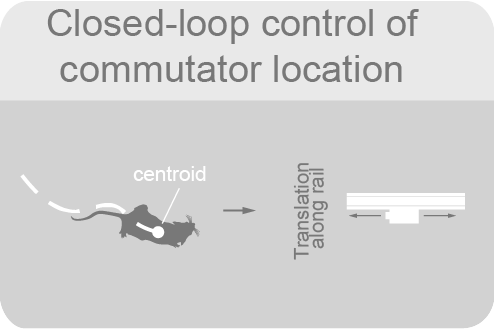
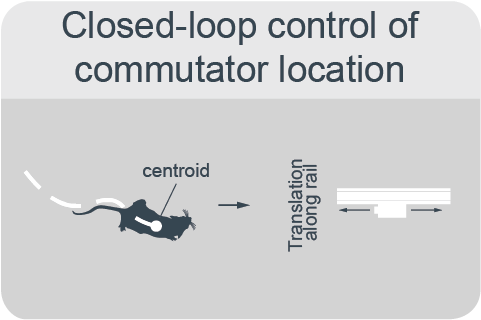
Update multianimal tracking (#145)
* Update multianimal tracking

* Link to experimental workflow tutorial

* Replace main figure

* Add references to hardware modules

* Replace grid layout with vertical image-text blocks in getting started

* Standardise images and increase contrast

* Increase image size

* Restore main figure with 3 mice

* Update to inlude Bonsai

* Add Bonsai URL to `myst_url_schemes`

* Create explicit refs for subject tracking nodes

* Add references to acquisition modules

---------

diff --git a/src/_static/css/custom.css b/src/_static/css/custom.css
@@ -71,6 +71,17 @@ html[data-theme=light] {
   height: 8vw; 
 }
 
+.img-getting-started-large {
+  min-width: 300px;
+  margin-bottom: 1rem;
+}
+
+.img-getting-started-small {
+  min-width: 200px;
+  width: 40%;
+  margin-bottom: 1rem;
+}
+
 img.img-hardware-steps {
   max-height: 40vh;
 }

diff --git a/src/conf.py b/src/conf.py
@@ -179,6 +179,8 @@ myst_url_schemes = {
     "aeon-feeder-github": "https://github.com/SainsburyWellcomeCentre/aeon_feeder/{{path}}",
     "aeon-api-github": "https://github.com/SainsburyWellcomeCentre/aeon_api/{{path}}",
     "aeon-template-github": "https://github.com/SainsburyWellcomeCentre/aeon_template/{{path}}",
+    "aeon-sleap-processing-github": "https://github.com/SainsburyWellcomeCentre/aeon_sleap_processing/{{path}}",
+    "bonsai": "https://bonsai-rx.org/{{path}}#{{fragment}}",
     "datajoint": "https://www.datajoint.com/{{path}}",
     "datajoint-docs": "https://docs.datajoint.com/{{path}}#{{fragment}}",
     "sample-data-single-mouse-foraging": "https://doi.org/10.5281/zenodo.13881884",

diff --git a/src/getting_started/multianimal_tracking.md b/src/getting_started/multianimal_tracking.md
@@ -2,72 +2,67 @@
 # Multi-Animal Tracking
 
 :::{figure} ../images/ma-main.png
-:height: 300px
 :alt: multi-animal-tracking
+:class: img-getting-started-large
+:width: 60%
 
-Online tracking of location and identity of individual animals allows for quantification of natural behaviours.
+Online tracking of location, poses and identity of individual animals allows for quantification of natural behaviours.
 :::
-By quantifying both position as well as locomotion speed of multiple animals over weeks, we can identify the emergence of spontaneous behaviours such as foraging, as well as investigate social dynamics and individual strategies and their modulation by environmental influences.
-This is possible through the multipronged approach using multiple cameras as well as RFID sensors embedded in a single workflow.
+By quantifying position and locomotion speed as well as estimating the poses of multiple animals over weeks, we can identify the emergence of spontaneous behaviours such as foraging, as well as investigate social dynamics and individual strategies and their modulation by environmental influences. 
+This is possible through the multipronged approach using [Bonsai](bonsai:) and the computer vision software [SLEAP](sleap:) on multiple cameras and RFID sensors embedded in a single [experimental workflow](target-general-experimental-workflow).
 
-## Live position tracking
-::::{grid} 2
-:margin: 0
-
-:::{grid-item}
-:columns: 4
-:child-align: center
-![live-position-tracking](../images/ma-live-position-tracking.png)
-:::
-:::{grid-item}
-:columns: 8
-:child-align: center
-
-An overhead camera with a view of the entire habitat feeds into a Bonsai workflow and
-continuously estimates the animals' x, y positions, body length, and orientation.
+## Bonsai centroid tracking
+For simple position tracking, the [`PositionTracking` node](target-node-positiontracking) in the [subject tracking module](target-module-subject-tracking) detects animal centroids using blob detection on masked regions of interest.
+This approach is suitable for single-animal experiments or for generating annotated datasets to train SLEAP models.
 
 *Relevant repositories: [aeon_experiments](aeon-experiments-github:), [aeon_acquisition](aeon-acquisition-github:)*
+
+## SLEAP identity model
+:::{image} ../images/ma-identity-model.png
+:alt: sleap-id-model
+:class: img-getting-started-small
+:align: center
 :::
-::::
 
-## Identifying animals
-::::{grid} 2
-:margin: 0
+To enable reliable individual identification, distinctive band patterns are tattooed on the mice's tails as clear and stable markers.
+Top-down view cameras are used to train experiment-specific SLEAP identity models to track each mouse based on its unique tail pattern.
+This can be achieved using either a single overhead full-field camera that captures the entire [habitat](target-habitat), or a set of four overhead quadrant cameras, each capturing a zoomed-in view of approximately one quarter of the habitat with slight overlaps to ensure continuous coverage.
+The latter approach offers improved tracking accuracy by providing higher-resolution views of the mice and their tail patterns.
+These identity models are trained for each unique set of subjects.
 
-:::{grid-item}
-:columns: 4
-:child-align: center
-![identifying-animals](../images/ma-identifying-animals.png)
+*Relevant repositories: [aeon_sleap_processing](aeon-sleap-processing-github:)*
+
+## SLEAP pose model
+:::{image} ../images/ma-pose-model.png
+:alt: sleap-pose-model
+:class: img-getting-started-small
+:align: center
 :::
-:::{grid-item}
-:columns: 8
-:child-align: center
 
-When there are multiple animals in the habitat, identity of each animal can be
-determined using computer vision ([SLEAP](sleap:)) from the overhead camera using the individual tail tattoos (one
-band, two bands, or none) as features. Furthermore, animals are implanted with RFID tags that
-allow us to quantify their visits to important sites (nest, foraging patches, gates) which are equipped with RFID antennae. 
+The SLEAP pose model tracks eight body parts along each mouse using overhead cameras (typically the full-field camera).
+Unlike identity models, the pose model is designed to be reusable across experiments with similar setups.
 
-*Relevant repositories: [aeon_experiments](aeon-experiments-github:), [aeon_acquisition](aeon-acquisition-github:)*
+*Relevant repositories: [aeon_sleap_processing](aeon-sleap-processing-github:)*
+
+## Inference pipeline
+:::{image} ../images/ma-inference-pipeline.png
+:alt: multi-animal-tracking
+:class: img-getting-started-large
+:align: center
 :::
-::::
 
-## Pose estimation
-::::{grid} 2
-:margin: 0
+SLEAP model inference is handled through the [`PoseTracking` node](target-node-posetracking) in the [subject tracking module](target-module-subject-tracking).
+The identity model processes all quadrant views, assigning an identity and a likelihood score to each detected mouse. 
+For each mouse, the prediction with the highest likelihood is selected and projected onto the full-field camera view. 
+If zoomed-in quadrant cameras are not available, an identity model trained on the full-field view can be used instead. 
+When both models are available, full-field tracking serves as a fallback in frames where quadrant-based tracking fails to detect one or more mice.
+The pose model then estimates the pose of each mouse in the full-field view.
+The final output combines both pose and identity assignments.
 
-:::{grid-item}
-:columns: 4
-:child-align: center
-![pose-estimation](../images/ma-pose-estimation.png)
-:::
-:::{grid-item}
-:columns: 8
-:child-align: center
+*Relevant repositories: [aeon_sleap_processing](aeon-sleap-processing-github:), [aeon_experiments](aeon-experiments-github:), [aeon_acquisition](aeon-acquisition-github:)*
 
-A zoomed-in view of the overhead camera together with side-view cameras at
-behavioural hotspots such as the foraging patches allows for analysis of posture.
+## RFID validation
+Each mouse is implanted with an RFID tag, enabling automatic detection of its presence at key locations within the habitat which are equipped with RFID antennae ([nest](target-nest), [foraging patches](target-foraging-patch), gates).
+These RFID detections provide ground-truth data for validating the accuracy of identity tracking.
 
-*Relevant repositories: [aeon_experiments](aeon-experiments-github:), [aeon_acquisition](aeon-acquisition-github:)*
-:::
-::::
+*Relevant repositories: [aeon_sleap_processing](aeon-sleap-processing-github:)*

diff --git a/src/user/aeon_modules/acquisition/subject_tracking.md b/src/user/aeon_modules/acquisition/subject_tracking.md
@@ -7,6 +7,7 @@ It includes nodes such as `PositionTracking` for detecting and tracking blobs (o
 These enable real-time tracking, event triggering, and data logging, making it easier to monitor and analyse animal behaviour in various experimental setups.
 
 ## Nodes
+(target-node-positiontracking)=
 ### PositionTracking 
 The `PositionTracking (Aeon.Vision)` node accepts frame events generated by a [camera](target-node-spinnakervideosource) and detects dark objects against a light background using a standard blob tracking pipeline. 
 
@@ -76,8 +77,9 @@ This name will be set to the `Subject` that carries the `FrameEvents` from the [
 ![Aeon.Vision.PositionTracking](../../../workflows/positionTracking.bonsai)
 :::
 
+(target-node-posetracking)=
 ### PoseTracking
-Pose tracking utilises [SLEAP](https://sleap.ai/), which is fully integrated with Bonsai through the [Bonsai.Sleap](https://bonsai-rx.org/sleap/index.html) package, to simultaneously track and identify different animals within the habitat.
+Pose tracking utilises [SLEAP](https://sleap.ai/), which is fully integrated with Bonsai through the [Bonsai.Sleap](bonsai:sleap/index.html) package, to simultaneously track and identify different animals within the habitat.
 
 In Aeon experimental workflows, two linked `IncludeWorkflow`s are provided to give this functionality. 
 The `PoseTracking (Extensions)` node contains the complete data flow and processing workflow for identity and tracking of subjects from video frames captured by the cameras, whereas the `PoseTracking (Aeon.Vision.Sleap)` node is used within this workflow to perform the model inference step of processing. 
@@ -126,10 +128,10 @@ Inside, place a `PoseTracking (Aeon.Vision.Sleap)` node, externalise all propert
 
 ### RegionTracking 
 <!-- I assume this node can be used with either PositionTracking or PoseTracking. If incorrect, we should remove the PoseTracking bit. -->
-The `RegionTracking (Aeon.Vision)` node computes and returns a `boolean` describing whether the tracked position (from a [`PositionTracking (Aeon.Vision)`](#positiontracking) or [`PoseTracking (Aeon.Vision.Sleap)`](#posetracking) node) of an animal falls within a defined [region](target-node-regiontracking-properties) of the camera image.
+The `RegionTracking (Aeon.Vision)` node computes and returns a `boolean` describing whether the tracked position (from a [`PositionTracking (Aeon.Vision)`](target-node-positiontracking) or [`PoseTracking (Aeon.Vision.Sleap)`](target-node-posetracking) node) of an animal falls within a defined [region](target-node-regiontracking-properties) of the camera image.
 <!-- To be completed
 #### Inputs
-Tracking events in the format `Harp.Timestamped<Bonsai.Vision.ConnectedComponentCollection>` generated by a [`PositionTracking (Aeon.Vision)`](#positiontracking) node?
+Tracking events in the format `Harp.Timestamped<Bonsai.Vision.ConnectedComponentCollection>` generated by a [`PositionTracking (Aeon.Vision)`](target-node-positiontracking) node?
 
 #### Outputs
 boolean? 
@@ -166,10 +168,10 @@ Next, add a `SubscribeSubject` node to subscribe to the common "TrackingEvents" 
 
 ### DistanceFromPoint 
 <!-- I assume this node can be used with either PositionTracking or PoseTracking. If incorrect, we should remove the PoseTracking bit. -->
-The `DistanceFromPoint (Aeon.Vision)` node computes the distance (in pixels) between the tracked position (from a [`PositionTracking (Aeon.Vision)`](#positiontracking) or [`PoseTracking (Aeon.Vision.Sleap)`](#posetracking) node) of an animal and a defined [point](target-node-distancefrompoint-properties) in the camera image. 
+The `DistanceFromPoint (Aeon.Vision)` node computes the distance (in pixels) between the tracked position (from a [`PositionTracking (Aeon.Vision)`](target-node-positiontracking) or [`PoseTracking (Aeon.Vision.Sleap)`](target-node-posetracking) node) of an animal and a defined [point](target-node-distancefrompoint-properties) in the camera image. 
 <!-- To be completed
 #### Inputs
-Tracking events in the format `Harp.Timestamped<Bonsai.Vision.ConnectedComponentCollection>` generated by a [`PositionTracking (Aeon.Vision)`](#positiontracking) node?
+Tracking events in the format `Harp.Timestamped<Bonsai.Vision.ConnectedComponentCollection>` generated by a [`PositionTracking (Aeon.Vision)`](target-node-positiontracking) node?
 
 #### Outputs
 A `Harp.Timestamped<double>` distance in pixels?
@@ -200,7 +202,7 @@ like the [`InRange (Aeon.Acquisition)`](#inrange) node to trigger events or comm
 (target-node-inrange)=
 ### InRange
 <!-- I assume this node can be used with either PositionTracking or PoseTracking. If incorrect, we should remove the PoseTracking bit. -->
-The `InRange (Aeon.Acquisition)` node is used to determine whether the tracked position (from a [`PositionTracking (Aeon.Vision)`](#positiontracking) or [`PoseTracking (Aeon.Vision.Sleap)`](#posetracking) node) of an animal is within a specified [range](target-node-inrange-properties) in a single dimension.
+The `InRange (Aeon.Acquisition)` node is used to determine whether the tracked position (from a [`PositionTracking (Aeon.Vision)`](#positiontracking) or [`PoseTracking (Aeon.Vision.Sleap)`](target-node-posetracking) node) of an animal is within a specified [range](target-node-inrange-properties) in a single dimension.
 <!-- To be completed
 #### Inputs
 #### Outputs
@@ -268,5 +270,5 @@ Information on state recovery or persistence requirements, if applicable.
 Explanation of any alert configurations and links to guides or further configuration steps.
 -->
 :::{seealso}
-The [SLEAP](https://sleap.ai/) and [Bonsai.Sleap](https://bonsai-rx.org/sleap/index.html) documentation for more information on training models to be used with the `PoseTracking (Aeon.Vision.Sleap)` node.
+The [SLEAP](https://sleap.ai/) and [Bonsai.Sleap](bonsai:sleap/index.html) documentation for more information on training models to be used with the `PoseTracking (Aeon.Vision.Sleap)` node.
 :::

diff --git a/src/getting_started/npx_recording.md b/src/getting_started/npx_recording.md
@@ -2,8 +2,9 @@
 # Neuropixels Recordings
 
 :::{figure} ../images/npx-main.png
-:height: 300px
 :alt: neuropixels-recording
+:class: img-getting-started-large
+:width: 60%
 
 Week-long continuous neural recordings from a freely moving animal in a large environment.
 :::
@@ -17,58 +18,34 @@ It is crucial to ensure that the animal's movement is unrestricted and that the 
 To address these challenges, we developed a [closed-loop control system](target-commutation-translation) capable of untwisting the cable using the [ONIX torque-free commutator](https://open-ephys.org/commutator-info) and translating it based on the mouse's position.
 
 ## Closed-loop control of commutator location
-::::{grid} 2
-:margin: 0
-
-:::{grid-item}
-:columns: 4
-:child-align: center
-![commutator-location-control](../images/npx-commutator-location.png)
+:::{image} ../images/npx-commutator-location.png
+:alt: commutator-location-control
+:class: img-getting-started-small
+:align: center
 :::
-:::{grid-item}
-:columns: 8
-:child-align: center
 
 Using the live position estimate from the overhead camera, we can control the horizontal position of the commutator on a linear rail to follow the animal as it moves through the habitat. 
 
 *Relevant repositories: [aeon_experiments](aeon-experiments-github:), [aeon_lineardrive](aeon-lineardrive-github:)*
-:::
-::::
 
 ## Closed-loop control of commutator rotation
-::::{grid} 2
-:margin: 0
-
-:::{grid-item}
-:columns: 4
-:child-align: center
-![commutator-rotation-control](../images/npx-commutator-rotation.png)
+:::{image} ../images/npx-commutator-rotation.png
+:alt: commutator-rotation-control
+:class: img-getting-started-small
+:align: center
 :::
-:::{grid-item}
-:columns: 8
-:child-align: center
 
 Using the heading direction computed by the IMU sensor on the [ONIX neuropixels headstage](https://open-ephys.github.io/onix-docs/Hardware%20Guide/Headstages/headstage-neuropix-2e-beta.html), the cable commutation is adapted in real time to avoid tangling.
 
 *Relevant repositories: [aeon_experiments](aeon-experiments-github:), [bonsai-commutator](https://github.com/open-ephys/bonsai-commutator), [bonsai-onix1](https://github.com/open-ephys/bonsai-onix1)*
-:::
-::::
 
 ## Neuropixels 2.0 recordings
-::::{grid} 2
-:margin: 0
-
-:::{grid-item}
-:columns: 4
-:child-align: center
-![npx-20-recordings](../images/npx-recording-sites.png)
+:::{image} ../images/npx-recording-sites.png
+:alt: neuropixels-2-recording-sites
+:class: img-getting-started-small
+:align: center
 :::
-:::{grid-item}
-:columns: 8
-:child-align: center
 
 All data are acquired using the [ONIX recording system](https://open-ephys.github.io/onix-docs/index.html), which supports simultaneous recording with two [Neuropixels 2.0 probes](https://www.neuropixels.org/probe2-0). 
 
 *Relevant repositories: [bonsai-onix1](https://github.com/open-ephys/bonsai-onix1)*
-:::
-::::

diff --git a/src/user/tutorials/general_experimental_workflow.md b/src/user/tutorials/general_experimental_workflow.md
@@ -1,14 +1,15 @@
+(target-general-experimental-workflow)=
 # General experimental workflow infrastructure
 The Harp hardware eco-system underpins the Aeon system. 
 A full setup consists of multiple [Harp](https://www.cf-hw.org/harp) devices (e.g. [CameraController](https://github.com/harp-tech/device.cameracontrollergen2), [ClockSynchronizer](https://github.com/harp-tech/device.clocksynchronizer), etc.) and cameras that need to be monitored, controlled, and logged in synchrony. 
-This tutorial provides an overview of the experimental workflow infrastructure and the general strategy for designing workflows using [`Aeon.Acquisition`](target-acquisition-modules) nodes in [Bonsai](https://bonsai-rx.org/).
+This tutorial provides an overview of the experimental workflow infrastructure and the general strategy for designing workflows using [`Aeon.Acquisition`](target-acquisition-modules) nodes in [Bonsai](bonsai:).
 
 ## Harp device configuration
-Each physical Harp device used in Aeon has a dedicated [`IncludeWorkflow`](https://bonsai-rx.org/docs/api/Bonsai.Expressions.IncludeWorkflowBuilder.html) in the [`Aeon.Acquisition`](target-acquisition-modules) package. 
+Each physical Harp device used in Aeon has a dedicated [`IncludeWorkflow`](bonsai:docs/api/Bonsai.Expressions.IncludeWorkflowBuilder.html) in the [`Aeon.Acquisition`](target-acquisition-modules) package. 
 For example, a Harp [CameraController (Gen2)](https://github.com/harp-tech/device.cameracontrollergen2) device is controlled by a [`CameraController (Aeon.Video)`](target-node-cameracontroller) node.
-In the main experimental workflow, nodes are each placed in `Metadata` > `Devices` of the [`GroupWorkflow`](https://bonsai-rx.org/docs/api/Bonsai.Expressions.GroupWorkflowBuilder.html). 
+In the main experimental workflow, nodes are each placed in `Metadata` > `Devices` of the [`GroupWorkflow`](bonsai:docs/api/Bonsai.Expressions.GroupWorkflowBuilder.html). 
 Upon execution, these nodes connect to the corresponding physical devices and configure their operation settings according to the specified properties of the node.
-Additionally, the triggers and functions of any triggered actions on the device (e.g. delivering a food pellet) as well as any [`Subject`](https://bonsai-rx.org/docs/articles/subjects.html) names used as inputs and outputs to the device are defined here.
+Additionally, the triggers and functions of any triggered actions on the device (e.g. delivering a food pellet) as well as any [`Subject`](bonsai:docs/articles/subjects.html) names used as inputs and outputs to the device are defined here.
 
 Events emitted by Harp devices are in the form of `Harp.HarpMessages`. 
 The full event stream, along with other useful outputs are published to `Subjects` or `BehaviorSubjects`, making them accessible in the Bonsai editor's toolbox anywhere in the workflow using their names.

diff --git a/src/user/aeon_modules/acquisition/control_panel.md b/src/user/aeon_modules/acquisition/control_panel.md
@@ -18,14 +18,14 @@ These are split into several categories, each implemented in a dedicated `GroupW
 3. **EnvironmentState**: Constructs a mashup of a general control panel displaying information and providing control dialogues for the [foraging patches](target-module-foraging-patch), the environment configuration and manual annotation and alert logs grouped into the "ExperimentMetadata" `GroupWorkflow`, as well as experimental subjects entered and removed from the habitat and subject weight measurements grouped into the "EnvironmentSubjectState" `GroupWorkflow`
 4. **CameraSelector**: Displays a single image visualiser used to view any camera or other `OpenCV.Net.IplImage`, selected from a list of `Subject`s using the "SubjectActivity" control panel.
 
-Additionally, the `ControlPanel` node enables manual control to start and stop the cameras on the setup through [`KeyDown`](https://bonsai-rx.org/docs/api/Bonsai.Windows.Input.KeyDown.html) nodes cast to 'StartCameras' and 'StopCameras' `Subject`s that trigger or halt acquisition of camera images by the [`CameraController`](target-module-camera-controller). 
+Additionally, the `ControlPanel` node enables manual control to start and stop the cameras on the setup through [`KeyDown`](bonsai:docs/api/Bonsai.Windows.Input.KeyDown.html) nodes cast to 'StartCameras' and 'StopCameras' `Subject`s that trigger or halt acquisition of camera images by the [`CameraController`](target-module-camera-controller). 
 Finally, it defines and splits the timestamped entry and exit events of experimental subjects, defined by the [`SubjectDatabase`](target-node-subjectdatabase) inside 'ExperimentMetadata'.
 These events are then utilised by the `RepeatEverySubject` workflow to begin and end subscription to the attached sequence on entry and exit of an experimental subject.
 
 Visualisers and control panel are displayed when the workflow is run from the editor or the CLI. 
 As with any other visualisers in Bonsai, the visibility, position, size and layout configuration are stored and loaded from the workflow's `.bonsai.layout` file, saved with the workflow. 
 
-These control panels are largely supported and configured using in-built functionality provided by nodes in [`Bonsai.GUI`](https://bonsai-rx.org/gui/), but some visualisers are constructed using custom auxiliary nodes for Aeon experiments in the `Aeon.Environment` namespace or as an extension in C#. 
+These control panels are largely supported and configured using in-built functionality provided by nodes in [`Bonsai.GUI`](bonsai:gui/), but some visualisers are constructed using custom auxiliary nodes for Aeon experiments in the `Aeon.Environment` namespace or as an extension in C#. 
 These include:
 
 - [`ExperimentProperties`](target-node-experimentproperties)

diff --git a/src/getting_started/repositories.md b/src/getting_started/repositories.md
@@ -1,7 +1,7 @@
 (target-repositories)=
 # Repositories
 The Aeon infrastructure is complex and multi-dimensional, spanning hardware, acquisition software, standard data formats, and a low-level API for data analysis. 
-As each of these different components is built using different languages, including but not limited to CAD programs, [Bonsai](https://bonsai-rx.org/) and Python, we organise Aeon into the following repositories:
+As each of these different components is built using different languages, including but not limited to CAD programs, [Bonsai](bonsai:) and Python, we organise Aeon into the following repositories:
 
 ::::{grid} 1 2 2 2
 :gutter: 3 
